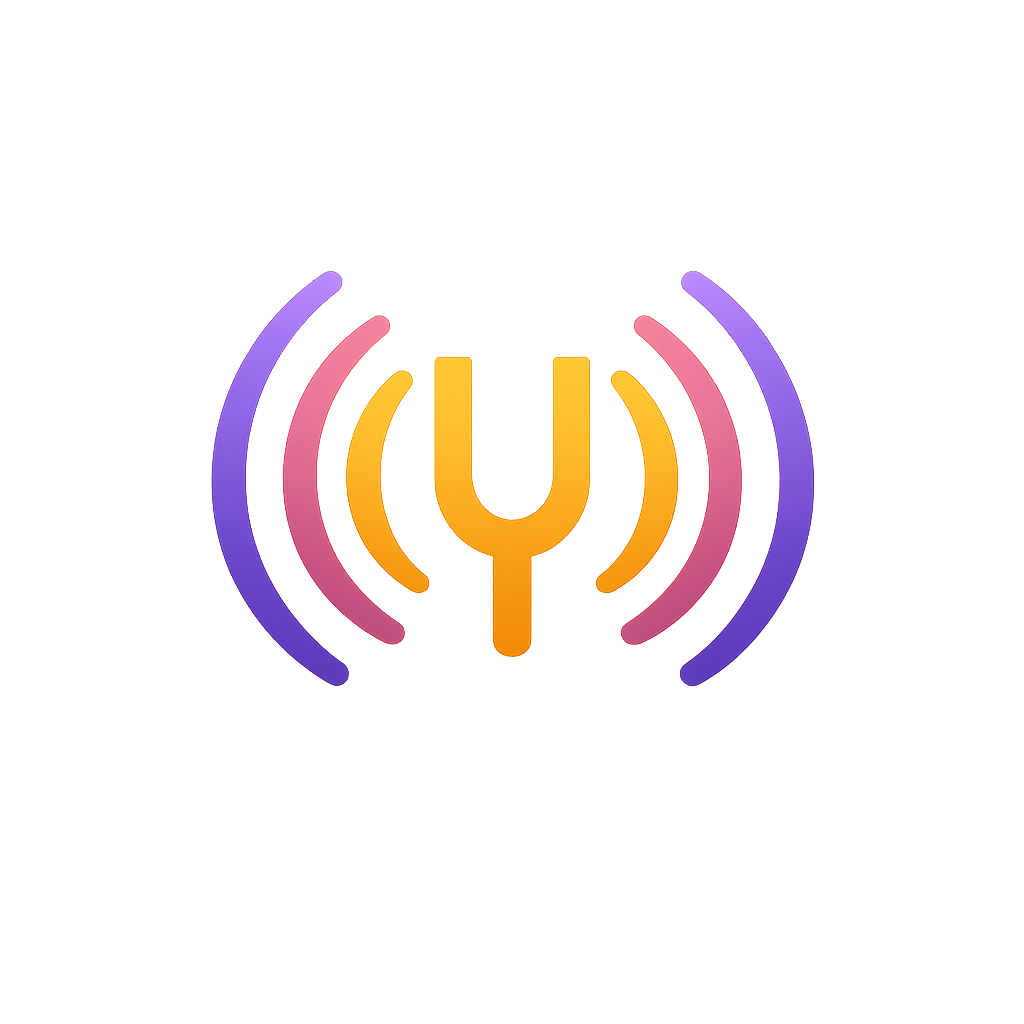
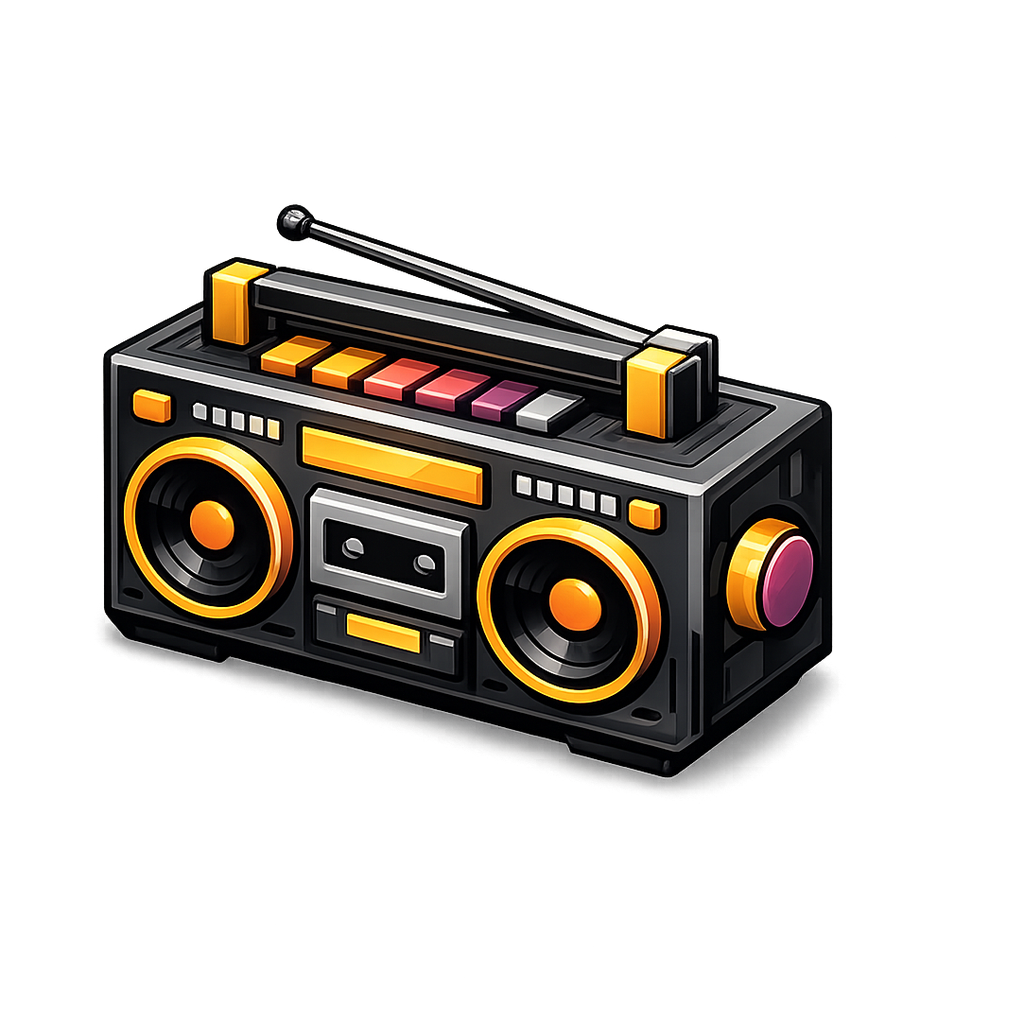
v3.4.0: UI polish — Output 2-col, EQ dynamic height, genre-colored stats, queue auto-scroll
- Output tab: 2-column layout (Local Devices | Bluetooth) with centered scan button
- EQ panel: sliders fill available height dynamically, preset dropdown centered below
- Stats: Top Genres bars colored using semantic GENRE_COLORS mapping
- Queue: auto-scroll to current track on song change + ensure current track always rendered
- Auto-update: seamless flow (downloading… → click to install), no GitHub redirect
- Mobile: Stream mode button disabled with "Coming soon" tooltip
- Drift viz: enhanced 3-layer nebula with higher contrast + bass flash
- Viz menu: Drift reordered to first position
- Server pill: shows "Online", click for toast with details
- Settings modal: sticky header/footer with scrollable body
- Playlist modals: added modal-body wrappers for consistent padding
- New boombox app icon (cropped, transparent background)

Changed region(s): [[0.0938, 0.1875, 0.8125, 0.7812]]

diff --git a/public/index.html b/public/index.html
@@ -229,10 +229,10 @@
     .stat-count { font-size: 0.72rem; color: var(--text-dim); min-width: 30px; text-align: right; }
 
     /* EQ sliders */
-    .eq-band { display: flex; flex-direction: column; align-items: center; flex: 1; }
+    .eq-band { display: flex; flex-direction: column; align-items: center; flex: 1; height: 100%; }
     .eq-band input[type="range"] {
       writing-mode: vertical-lr; direction: rtl;
-      width: 6px; height: 140px; -webkit-appearance: none; appearance: none;
+      width: 6px; flex: 1; min-height: 80px; -webkit-appearance: none; appearance: none;
       background: var(--border); border-radius: 3px; outline: none; cursor: pointer;
     }
     .eq-band input[type="range"]::-webkit-slider-thumb {
@@ -479,17 +479,19 @@
     .modal-overlay.open { display: flex; }
     .modal {
       background: var(--surface); border: 1px solid var(--border); border-radius: 16px;
-      padding: 24px; width: 90%; max-width: 480px; max-height: 80vh; overflow-y: auto;
+      padding: 0; width: 90%; max-width: 480px; max-height: 80vh;
       box-shadow: 0 24px 80px rgba(0,0,0,0.5);
+      display: flex; flex-direction: column;
     }
-    .modal h3 { font-size: 1rem; margin-bottom: 16px; font-weight: 600; }
+    .modal h3 { font-size: 1rem; font-weight: 600; padding: 20px 24px 12px; margin: 0; flex-shrink: 0; border-bottom: 1px solid var(--border); }
+    .modal-body { padding: 12px 24px 20px; overflow-y: auto; flex: 1; min-height: 0; }
     .modal label { font-size: 0.78rem; color: var(--text-muted); display: block; margin-bottom: 5px; margin-top: 12px; }
     .modal input, .modal select {
       width: 100%; padding: 9px 12px; border-radius: var(--radius); border: 1px solid var(--border);
       background: var(--bg); color: var(--text); font-size: 0.83rem; font-family: var(--font); outline: none;
     }
     .modal input:focus { border-color: var(--accent); }
-    .modal-actions { display: flex; gap: 10px; margin-top: 20px; justify-content: flex-end; }
+    .modal-actions { display: flex; gap: 10px; padding: 14px 24px; justify-content: flex-end; flex-shrink: 0; border-top: 1px solid var(--border); }
     .modal-actions button {
       padding: 9px 18px; border-radius: 20px; border: 1px solid var(--border);
       background: transparent; color: var(--text); cursor: pointer;
@@ -538,7 +540,8 @@
       background: transparent; color: var(--text-muted); cursor: pointer;
       font-size: 0.7rem; font-family: var(--font); font-weight: 500; transition: all 0.2s;
     }
-    .mode-btn:hover { border-color: var(--accent); color: var(--accent); }
+    .mode-btn:hover:not(:disabled) { border-color: var(--accent); color: var(--accent); }
+    .mode-btn:disabled { opacity: 0.4; cursor: not-allowed; pointer-events: auto; }
     .mode-btn.active { background: linear-gradient(135deg,var(--accent),hsl(var(--hue), 90%, 78%)); color: #0a0a0b; border-color: var(--accent); font-weight: 600; }
 
     /* Remote mode indicator on player bar */
@@ -574,11 +577,11 @@
   <div class="header-right">
     <div class="mode-toggle" id="modeToggle" style="display:none;">
       <button class="mode-btn active" data-mode="remote">Remote</button>
-      <button class="mode-btn" data-mode="stream">Stream</button>
+      <button class="mode-btn" data-mode="stream" disabled title="Coming soon" style="opacity:0.4;cursor:not-allowed;">Stream</button>
     </div>
-    <span class="server-pill on" id="serverPill" style="display:none">
+    <span class="server-pill on" id="serverPill" style="display:none;cursor:pointer;" title="Click for server details">
       <span class="dot"></span>
-      <span class="server-label">LAN Server</span>
+      <span class="server-label">Online</span>
     </span>
     <button class="settings-btn" id="shortcutsBtn" title="Keyboard shortcuts" style="font-size:0.8rem;font-weight:700;font-family:var(--font);">?</button>
     <button class="settings-btn" id="settingsBtn" title="Settings">
@@ -620,8 +623,8 @@
             <svg viewBox="0 0 24 24" fill="currentColor" width="12" height="12"><circle cx="12" cy="5" r="2"/><circle cx="12" cy="12" r="2"/><circle cx="12" cy="19" r="2"/></svg>
           </button>
           <div class="viz-menu" id="vizMenu">
-            <div class="viz-menu-item" data-viz="nebula">Nebula</div>
             <div class="viz-menu-item active" data-viz="drift">Drift</div>
+            <div class="viz-menu-item" data-viz="nebula">Nebula</div>
             <div class="viz-menu-item" data-viz="wave">Wave</div>
             <div class="viz-menu-item" data-viz="starfield">Starfield</div>
             <div class="viz-menu-item" data-viz="spectrum">Spectrum</div>
@@ -691,15 +694,14 @@
   <!-- Users Tab (desktop only) -->
   <!-- EQ Tab -->
   <div class="panel" id="panel-eq">
-    <div style="padding:20px;">
-      <div style="display:flex;align-items:center;justify-content:space-between;margin-bottom:16px;min-height:32px;">
+    <div style="padding:20px;display:flex;flex-direction:column;height:100%;box-sizing:border-box;">
+      <div style="display:flex;align-items:center;justify-content:space-between;margin-bottom:16px;min-height:32px;flex-shrink:0;">
         <h2 style="font-size:0.9rem;font-weight:600;color:var(--text-muted);">Equalizer</h2>
       </div>
-      <div id="eqSliders" style="display:flex;align-items:flex-end;justify-content:space-between;height:180px;gap:6px;padding:0 10px;"></div>
-      <div id="eqLabels" style="display:flex;justify-content:space-between;padding:6px 10px 0;font-size:0.62rem;color:var(--text-dim);"></div>
-      <div style="margin-top:14px;display:flex;align-items:center;gap:10px;">
-        <span style="font-size:0.75rem;color:var(--text-dim);">Preset:</span>
-        <select id="eqPreset" class="genre-select" style="max-width:140px;">
+      <div id="eqSliders" style="display:flex;align-items:flex-end;justify-content:space-between;flex:1;min-height:120px;gap:6px;padding:0 10px;"></div>
+      <div id="eqLabels" style="display:flex;justify-content:space-between;padding:6px 10px 0;font-size:0.62rem;color:var(--text-dim);flex-shrink:0;"></div>
+      <div style="margin-top:16px;text-align:center;flex-shrink:0;">
+        <select id="eqPreset" class="genre-select" style="max-width:160px;">
           <option value="flat">Flat</option>
           <option value="bass">Bass Boost</option>
           <option value="treble">Treble Boost</option>
@@ -717,15 +719,19 @@
       <div style="display:flex;align-items:center;justify-content:space-between;margin-bottom:16px;min-height:32px;">
         <h2 style="font-size:0.9rem;font-weight:600;color:var(--text-muted);">Audio Output</h2>
       </div>
-      <h3 style="font-size:0.78rem;font-weight:600;color:var(--text-dim);margin-bottom:10px;">Local Devices</h3>
-      <div id="outputList"></div>
-      <div style="margin-top:20px;border-top:1px solid var(--border);padding-top:16px;">
-        <div style="display:flex;align-items:center;justify-content:space-between;margin-bottom:10px;">
-          <h3 style="font-size:0.78rem;font-weight:600;color:var(--text-dim);">Bluetooth</h3>
-          <button class="toolbar-btn" id="btScanBtn" style="padding:5px 10px;font-size:0.72rem;">Scan</button>
+      <div style="display:grid;grid-template-columns:1fr 1fr;gap:20px;">
+        <div>
+          <h3 style="font-size:0.78rem;font-weight:600;color:var(--text-dim);margin-bottom:10px;">Local Devices</h3>
+          <div id="outputList"></div>
         </div>
-        <p style="font-size:0.72rem;color:var(--text-dim);margin-bottom:10px;">Pair a Bluetooth speaker from Windows Settings, then it will appear in Local Devices above.</p>
-        <div id="btDevicesList"></div>
+        <div>
+          <h3 style="font-size:0.78rem;font-weight:600;color:var(--text-dim);margin-bottom:10px;">Bluetooth</h3>
+          <p style="font-size:0.72rem;color:var(--text-dim);margin-bottom:12px;">Pair a Bluetooth speaker from Windows Settings, then it will appear in Local Devices.</p>
+          <div id="btDevicesList"></div>
+          <div style="text-align:center;margin-top:14px;">
+            <button class="toolbar-btn" id="btScanBtn" style="padding:6px 16px;font-size:0.72rem;">Scan for devices</button>
+          </div>
+        </div>
       </div>
     </div>
   </div>
@@ -787,6 +793,7 @@
 <div class="modal-overlay" id="settingsModal">
   <div class="modal">
     <h3>Settings</h3>
+    <div class="modal-body">
 
     <div class="settings-section">
       <h4>Music Folders</h4>
@@ -862,6 +869,7 @@
       <p style="font-size:0.78rem;color:var(--text-muted);" id="aboutText">Ghetto Blaster</p>
     </div>
 
+    </div><!-- end modal-body -->
     <div class="modal-actions">
       <button id="settingsCancel">Cancel</button>
       <button class="primary" id="settingsSave">Save & Rescan</button>
@@ -873,10 +881,12 @@
 <div class="modal-overlay" id="playlistModal">
   <div class="modal">
     <h3>New Playlist</h3>
-    <label>Name</label>
-    <input type="text" id="plName" placeholder="My playlist...">
-    <label style="margin-top:14px">From keywords (title, artist, album)</label>
-    <input type="text" id="plKeywords" placeholder="chill, jazz, lofi...">
+    <div class="modal-body">
+      <label>Name</label>
+      <input type="text" id="plName" placeholder="My playlist...">
+      <label style="margin-top:14px">From keywords (title, artist, album)</label>
+      <input type="text" id="plKeywords" placeholder="chill, jazz, lofi...">
+    </div>
     <div class="modal-actions">
       <button id="plCancel">Cancel</button>
       <button class="primary" id="plCreate">Create</button>
@@ -887,11 +897,13 @@
 <div class="modal-overlay" id="editPlModal">
   <div class="modal">
     <h3>Edit Playlist</h3>
-    <label>Name</label>
-    <input type="text" id="editPlName" placeholder="Playlist name...">
-    <div id="editPlGenreRow" style="margin-top:14px;">
-      <label>Genre keywords (comma separated)</label>
-      <input type="text" id="editPlGenres" placeholder="hip-hop, rap, trap...">
+    <div class="modal-body">
+      <label>Name</label>
+      <input type="text" id="editPlName" placeholder="Playlist name...">
+      <div id="editPlGenreRow" style="margin-top:14px;">
+        <label>Genre keywords (comma separated)</label>
+        <input type="text" id="editPlGenres" placeholder="hip-hop, rap, trap...">
+      </div>
     </div>
     <div class="modal-actions">
       <button id="editPlCancel">Cancel</button>
@@ -948,6 +960,17 @@ function getGenreStyle(genre) {
   return 'color:var(--purple);background:var(--purple-subtle);';
 }
 
+function getGenreBarColor(genre) {
+  if (!genre) return 'var(--accent)';
+  var gl = genre.toLowerCase();
+  for (var i = 0; i < GENRE_COLORS.length; i++) {
+    if (GENRE_COLORS[i].match.some(function(m){ return gl.includes(m); })) {
+      return GENRE_COLORS[i].color;
+    }
+  }
+  return 'var(--accent)';
+}
+
 var PLACEHOLDER_SVG = '<svg viewBox="0 0 24 24" fill="none" stroke="currentColor" stroke-width="1.5"><path d="M9 18V5l12-2v13"/><circle cx="6" cy="18" r="3"/><circle cx="18" cy="16" r="3"/></svg>';
 
 // Global: replace broken images with placeholder
@@ -996,6 +1019,7 @@ document.querySelectorAll('.tab').forEach(function(tab) {
     tab.classList.add('active');
     document.getElementById('panel-' + tab.dataset.tab).classList.add('active');
     if (tab.dataset.tab === 'playlists') fetchPlaylists();
+    if (tab.dataset.tab === 'nowplaying') scrollToCurrentInQueue();
   });
 });
 
@@ -1181,10 +1205,16 @@ function renderQueue() {
     return;
   }
 
-  // Lazy render queue
+  // Lazy render queue — ensure current track is always rendered
   queueRenderedCount = 0;
   list.innerHTML = '';
   appendQueueBatch(list);
+  // Keep rendering batches until current track is visible
+  while (currentIndex >= queueRenderedCount && queueRenderedCount < queue.length) {
+    appendQueueBatch(list);
+  }
+  // Auto-scroll to current track
+  scrollToCurrentInQueue();
 }
 
 function appendQueueBatch(list) {
@@ -2158,12 +2188,14 @@ if (isDesktop) {
   document.getElementById('tbMin').addEventListener('click', function() { window.resonance.minimize(); });
   document.getElementById('tbMax').addEventListener('click', function() { window.resonance.maximize(); });
 
-  // Server pill
-  // Show server status (always on)
+  // Server pill — shows "Online", click for details
   var pill = document.getElementById('serverPill');
   pill.style.display = 'flex';
-  window.resonance.getServerStatus().then(function(s) {
-    pill.querySelector('.server-label').textContent = s.ip + ':' + (s.port || 3000);
+  var serverInfo = { ip: '...', port: 3000, version: '' };
+  window.resonance.getServerStatus().then(function(s) { serverInfo.ip = s.ip; serverInfo.port = s.port || 3000; });
+  window.resonance.getVersion().then(function(v) { serverInfo.version = v; });
+  pill.addEventListener('click', function() {
+    showToast('LAN: http://' + serverInfo.ip + ':' + serverInfo.port + ' — v' + serverInfo.version);
   });
 
   // Post audio output devices to server (for mobile Output tab)
@@ -2238,12 +2270,12 @@ if (isDesktop) {
   document.getElementById('refreshUsersBtn').addEventListener('click', fetchUsers);
   setInterval(function() { if (document.getElementById('panel-users').classList.contains('active')) fetchUsers(); }, 10000);
 
-  // Updates
+  // Updates — seamless: auto-download in background, click to install when ready
   window.resonance.onUpdateAvailable(function(d) {
     var badge = document.getElementById('updateBadge');
-    badge.textContent = 'v' + d.version + ' available';
+    badge.textContent = 'v' + d.version + ' downloading…';
     badge.style.display = 'inline';
-    badge.onclick = function() { window.open('https://github.com/n3lio/Ghetto-Blaster/releases/latest', '_blank'); };
+    badge.onclick = null;
   });
   window.resonance.onUpdateDownloaded(function(d) {
     var badge = document.getElementById('updateBadge');
@@ -2438,7 +2470,8 @@ function fetchStats() {
 
     var maxGenre = s.topGenres.length ? s.topGenres[0].count : 1;
     document.getElementById('statsGenres').innerHTML = s.topGenres.map(function(g, i) {
-      return '<div class="stat-row"><span class="stat-rank">' + (i+1) + '</span><span class="stat-name">' + esc(g.name) + '</span><div class="stat-bar"><div class="stat-bar-fill" style="width:' + (g.count/maxGenre*100) + '%"></div></div><span class="stat-count">' + g.count + '</span></div>';
+      var barColor = getGenreBarColor(g.name);
+      return '<div class="stat-row"><span class="stat-rank">' + (i+1) + '</span><span class="stat-name">' + esc(g.name) + '</span><div class="stat-bar"><div class="stat-bar-fill" style="width:' + (g.count/maxGenre*100) + '%;background:' + barColor + '"></div></div><span class="stat-count">' + g.count + '</span></div>';
     }).join('') || '<p style="font-size:0.78rem;color:var(--text-dim);">No data yet</p>';
   }).catch(function(){});
 }
@@ -2666,6 +2699,7 @@ if (!isDesktop) {
 
   document.querySelectorAll('.mode-btn').forEach(function(btn) {
     btn.addEventListener('click', function() {
+      if (btn.disabled) return;
       var mode = btn.dataset.mode;
       if (mode === 'stream') userPickedStream = true;
       setMobileMode(mode);

diff --git a/public/visualizer.js b/public/visualizer.js
@@ -126,22 +126,26 @@ class Visualizer {
     const hue=this.getHue();
     const bass=this.boost(this.getAvg(0,6));
     const mid=this.boost(this.getAvg(8,20));
+    const high=this.boost(this.getAvg(24,50));
     const t=this.frame*0.01;
 
-    ctx.fillStyle=`rgba(10,10,11,${0.05+(1-bass)*0.04})`;
+    ctx.fillStyle=`rgba(10,10,11,${0.04+(1-bass)*0.04})`;
     ctx.fillRect(0,0,w,h);
 
-    // Nebula background
+    // Rich nebula background (same intensity as Nebula mode)
     const layers=[
-      {cx:0.35+Math.sin(t*0.8)*0.12,cy:0.45+Math.cos(t*0.6)*0.1,r:0.3+bass*0.4,h:hue,alpha:0.03+bass*0.1},
-      {cx:0.65+Math.cos(t*0.7)*0.1,cy:0.55+Math.sin(t*0.9)*0.1,r:0.25+mid*0.35,h:hue+180,alpha:0.025+mid*0.08},
+      {cx:0.3+Math.sin(t*0.7)*0.15,cy:0.4+Math.cos(t*0.5)*0.15,r:0.35+bass*0.5,h:hue,alpha:0.04+bass*0.16},
+      {cx:0.7+Math.cos(t*0.6)*0.12,cy:0.55+Math.sin(t*0.8)*0.12,r:0.3+mid*0.4,h:hue+140,alpha:0.03+mid*0.12},
+      {cx:0.5+Math.sin(t*0.9)*0.14,cy:0.35+Math.cos(t*0.4)*0.12,r:0.25+high*0.35,h:hue+260,alpha:0.025+high*0.1},
     ];
     for(const l of layers){
       const g=ctx.createRadialGradient(l.cx*w,l.cy*h,0,l.cx*w,l.cy*h,l.r*w);
-      g.addColorStop(0,`hsla(${l.h},85%,55%,${l.alpha})`);
+      g.addColorStop(0,`hsla(${l.h},90%,60%,${l.alpha})`);
+      g.addColorStop(0.4,`hsla(${l.h+10},80%,50%,${l.alpha*0.55})`);
       g.addColorStop(1,'transparent');
       ctx.fillStyle=g;ctx.fillRect(0,0,w,h);
     }
+    if(bass>0.6){ctx.fillStyle=`hsla(${hue},80%,60%,${(bass-0.6)*0.2})`;ctx.fillRect(0,0,w,h);}
 
     // Wave overlay
     if(dataArray){